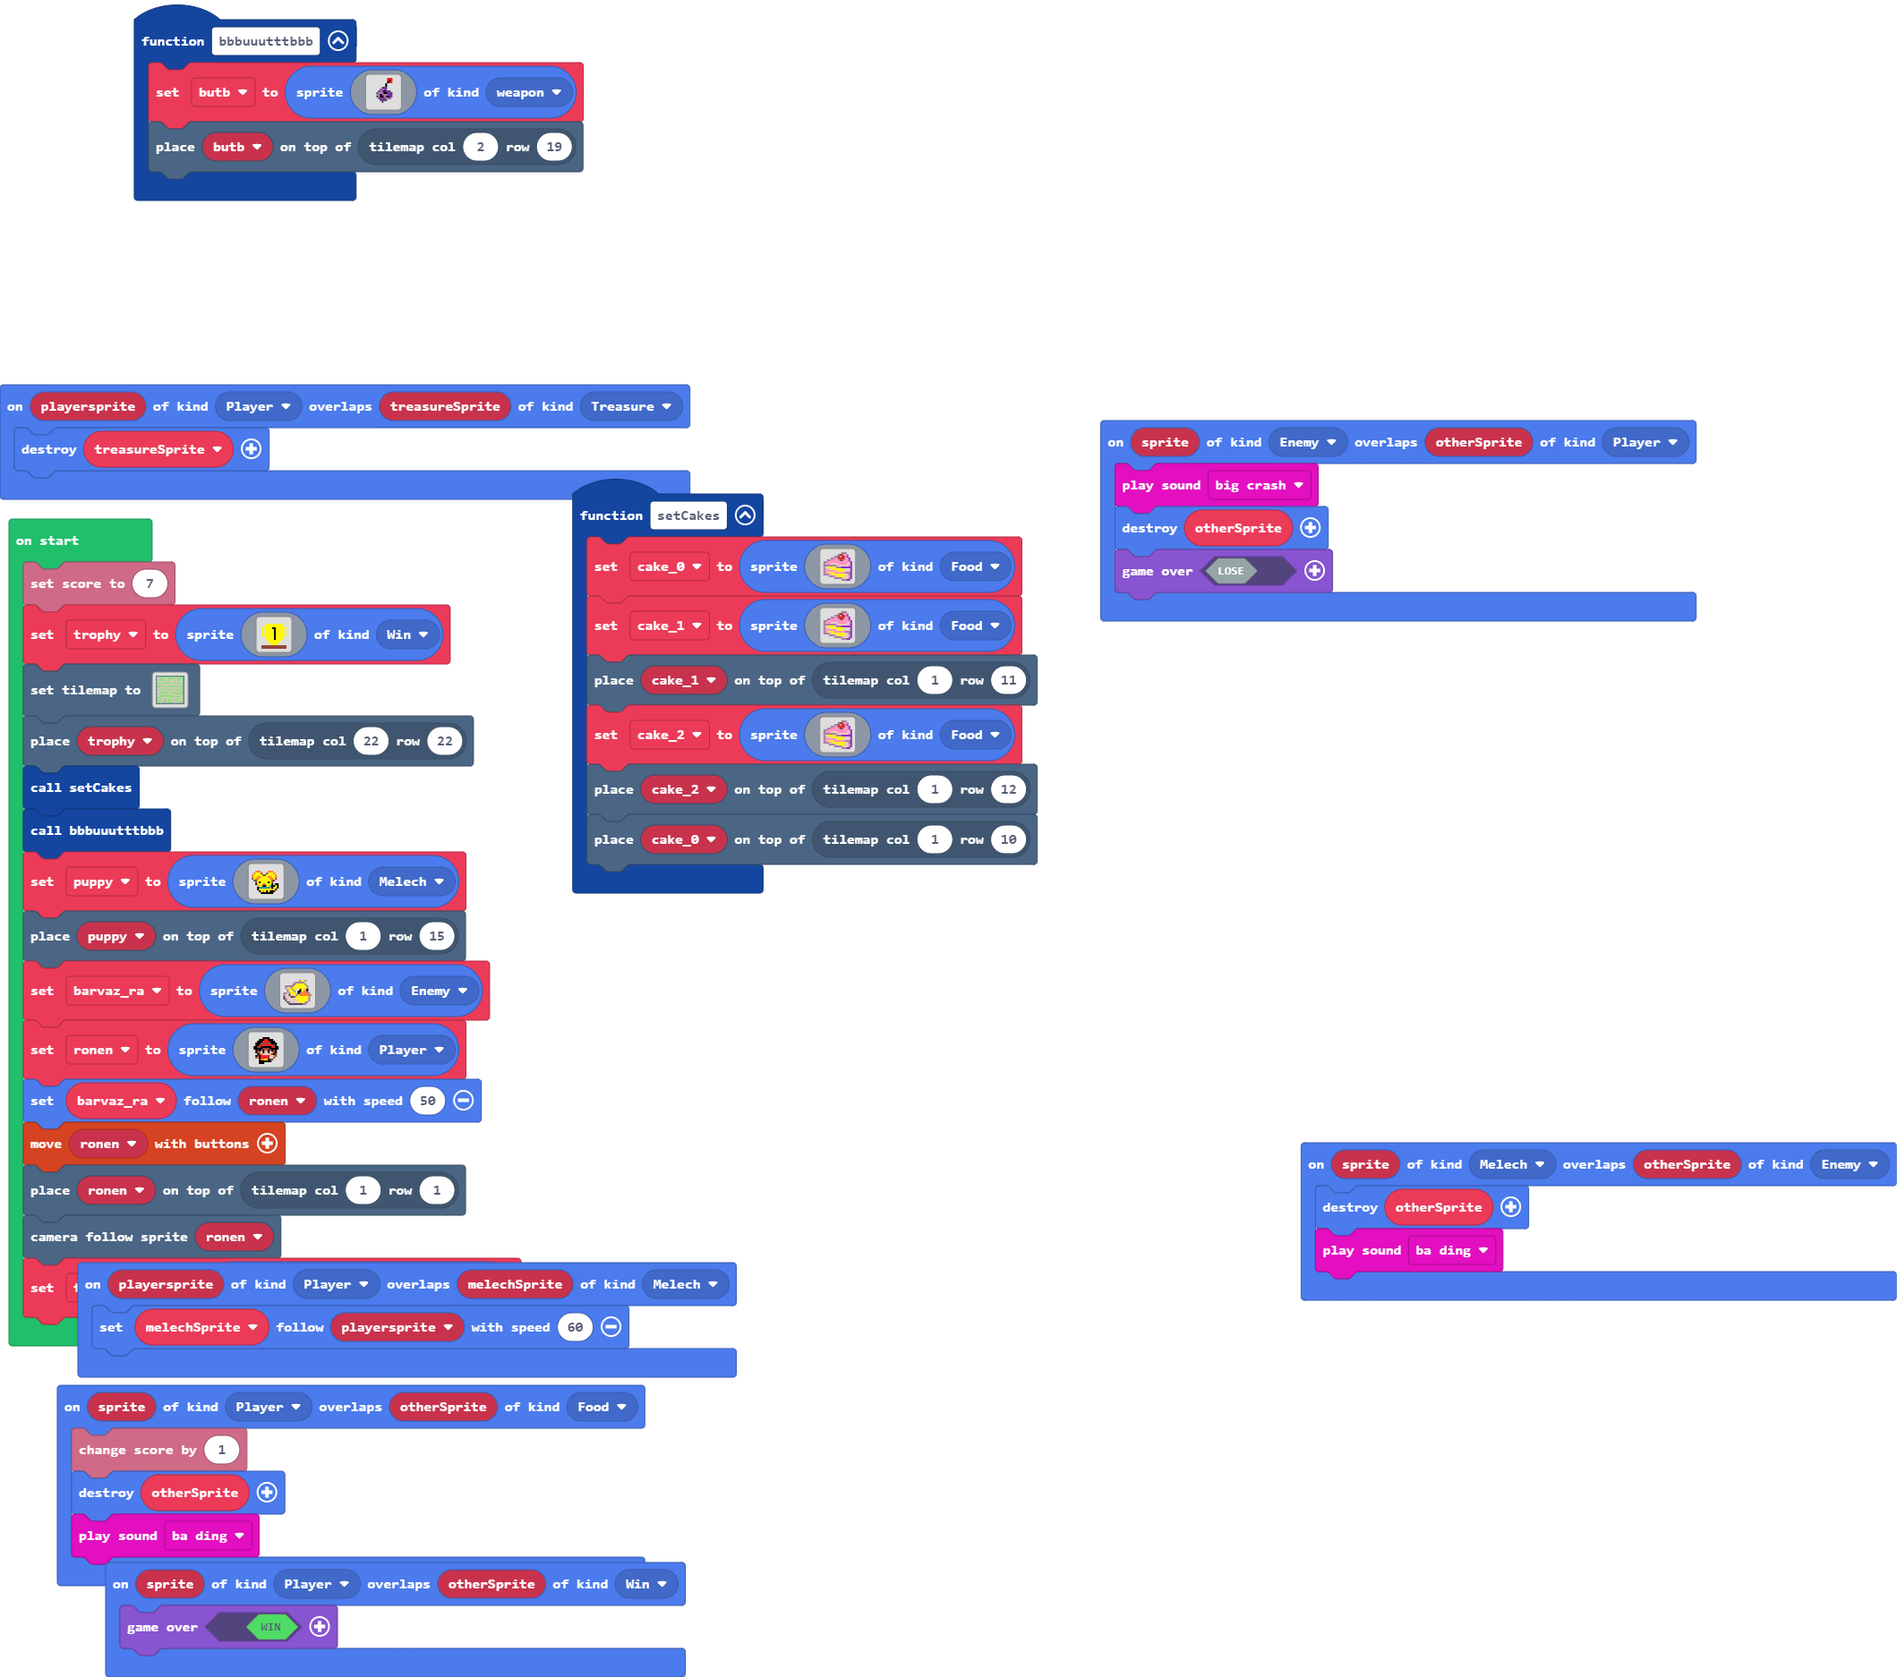
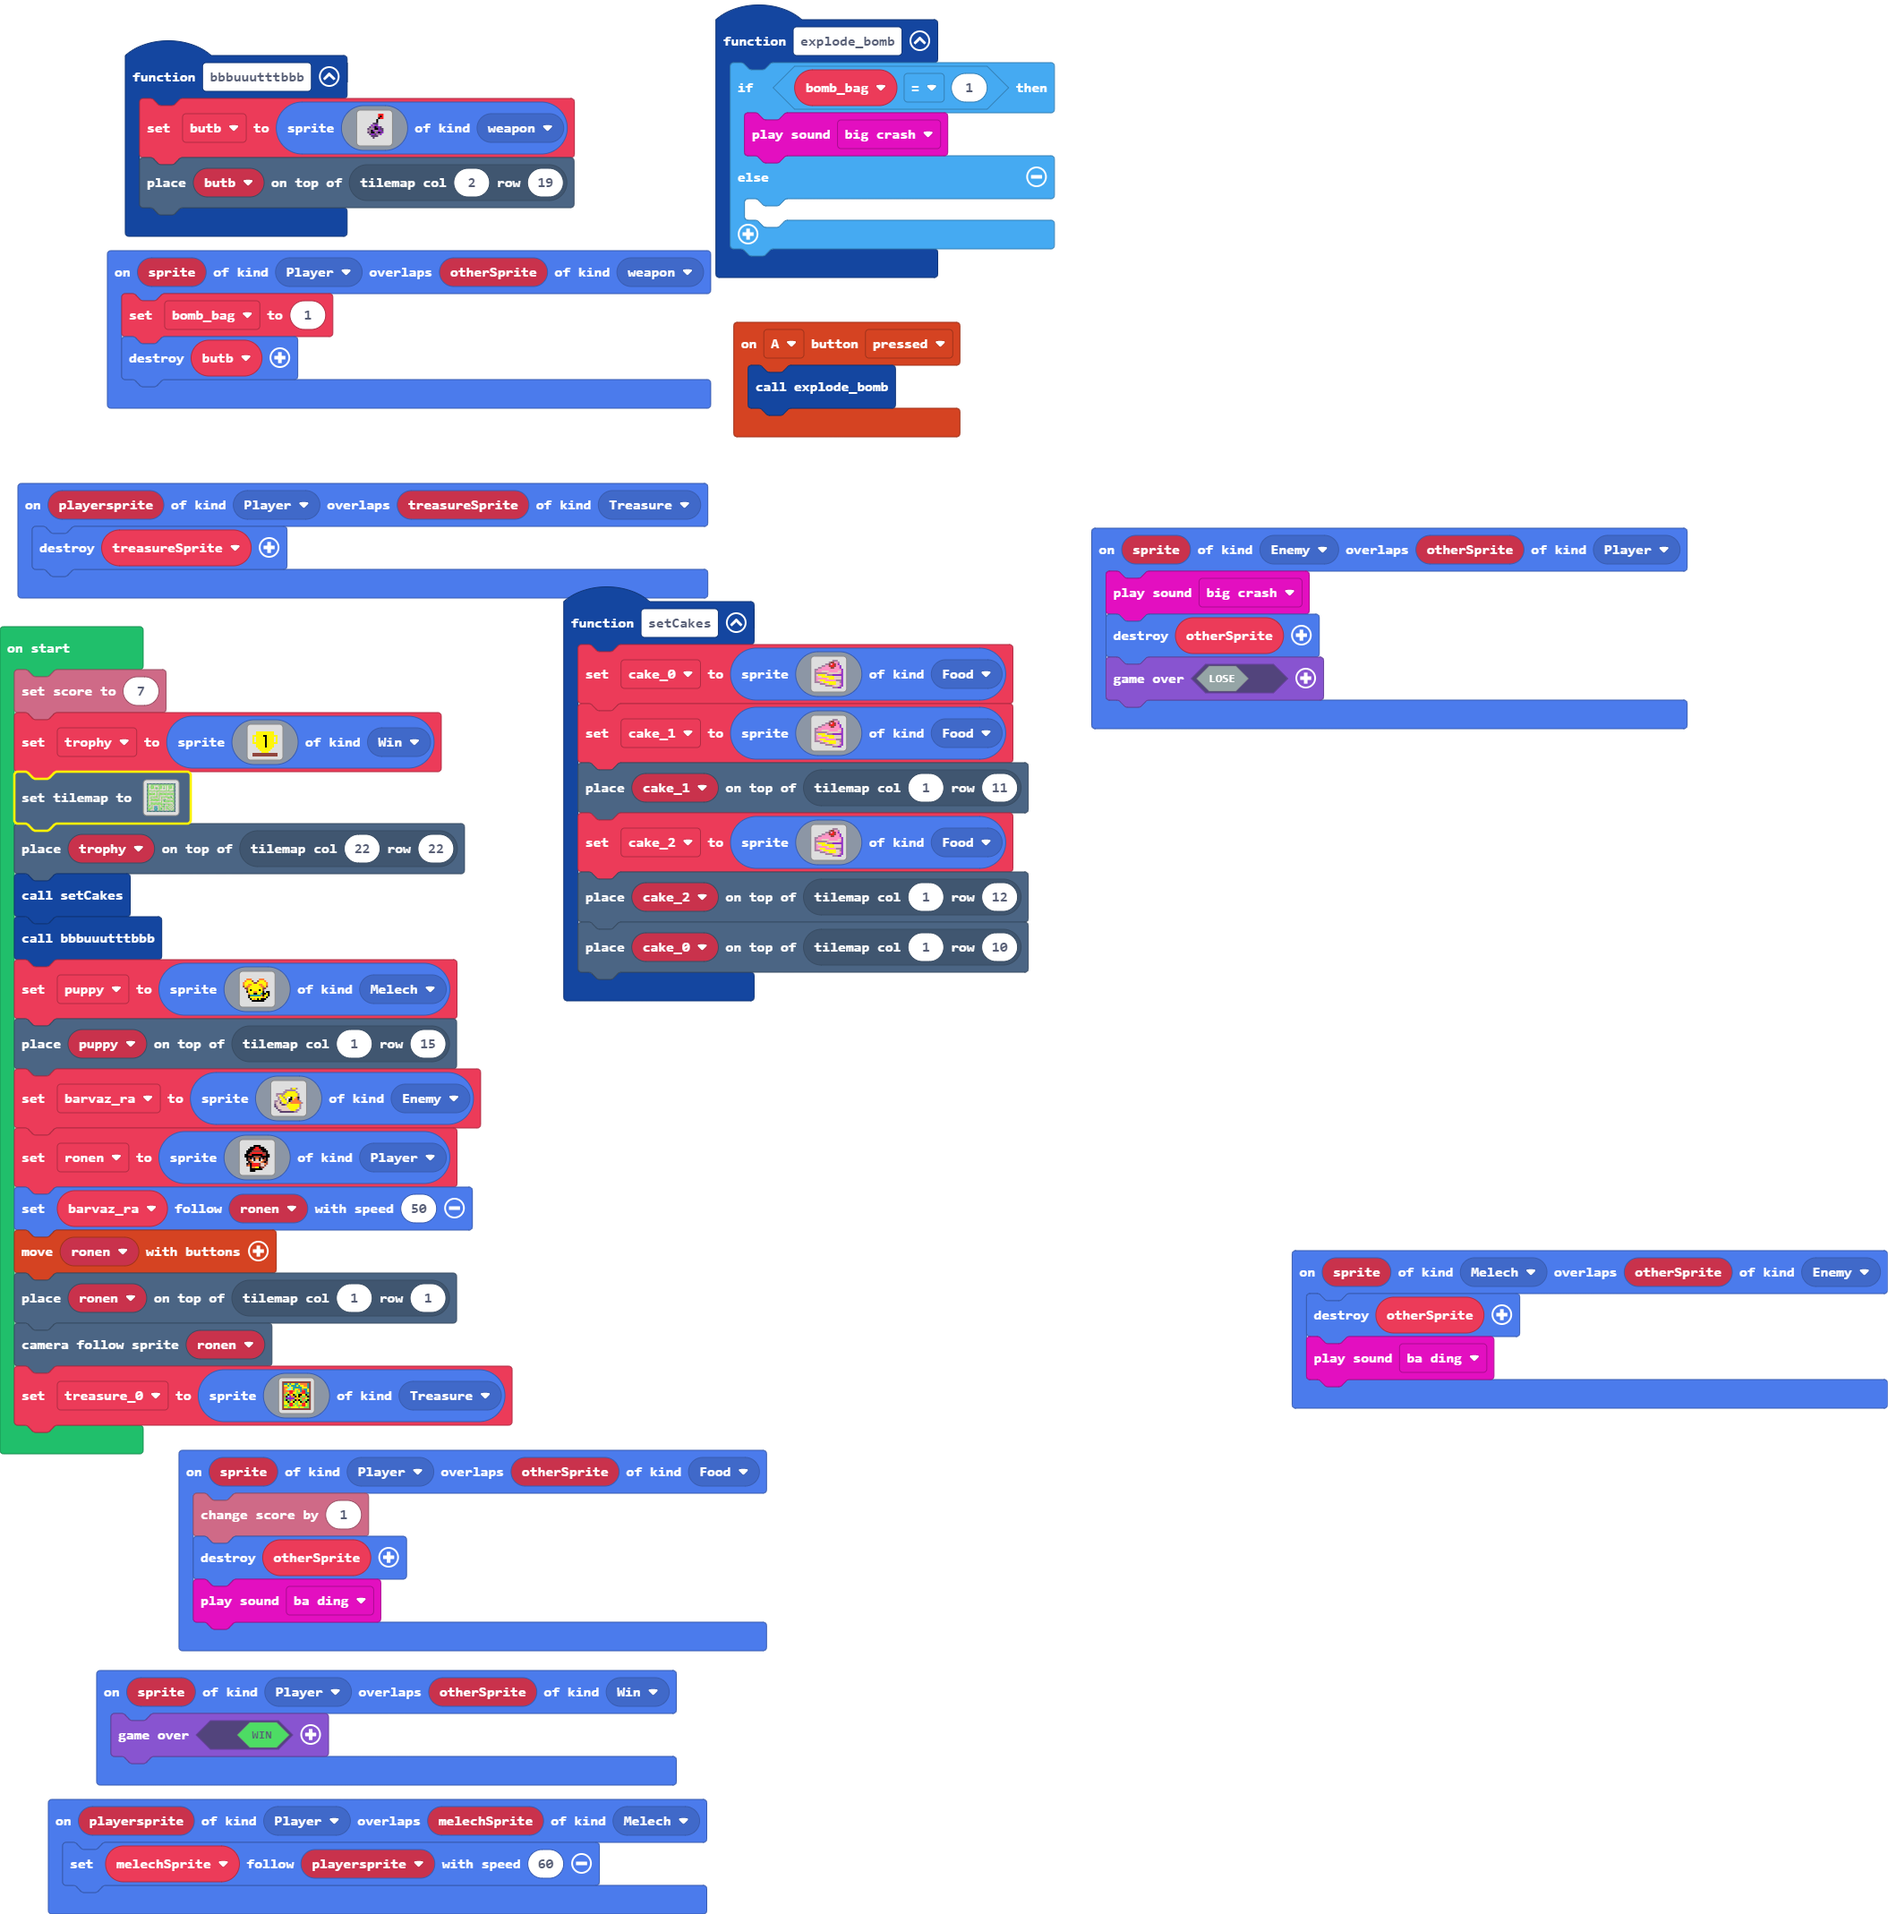
Update main.blocks, main.ts, tilemap.g.jres, tilemap.g.ts

Changed region(s): [[0.0, 0.0, 0.5856, 1.0], [0.5548, 0.2476, 0.8938, 0.4023], [0.678, 0.6499, 1.0, 0.7737]]

diff --git a/tilemap.g.ts b/tilemap.g.ts
@@ -73,7 +73,7 @@ namespace myTiles {
 . . . . . . . . . . . . . . . . 
 `, [myTiles.transparency16], TileScale.Sixteen);
             case "level1":
[2 lines of base64/hex data omitted]
 222222222222222222222222
 2.2....................2
 2.2...2222...2.2.2...2.2
@@ -98,7 +98,7 @@ namespace myTiles {
 2....2...2...2.222.22222
 2..222...2...2.222.....2
 222222222222222222222222
-`, [myTiles.transparency16,sprites.castle.tileGrass2,sprites.dungeon.greenInnerNorthEast,sprites.dungeon.greenInnerNorthWest,sprites.dungeon.greenInnerSouthWest,sprites.dungeon.greenInnerSouthEast,sprites.dungeon.greenOuterWest1,sprites.dungeon.greenOuterSouth1,sprites.dungeon.greenOuterNorth0,sprites.dungeon.greenOuterEast0,sprites.dungeon.floorLight0], TileScale.Sixteen);
+`, [myTiles.transparency16,sprites.castle.tileGrass2,sprites.dungeon.greenInnerNorthEast,sprites.dungeon.greenInnerNorthWest,sprites.dungeon.greenInnerSouthWest,sprites.dungeon.greenInnerSouthEast,sprites.dungeon.greenOuterWest1,sprites.dungeon.greenOuterSouth1,sprites.dungeon.greenOuterNorth0,sprites.dungeon.greenOuterEast0,sprites.dungeon.floorLight0,sprites.builtin.forestTiles0,sprites.castle.tileDarkGrass2,sprites.castle.tileDarkGrass3,sprites.castle.tileGrass1,sprites.castle.tileGrass3,sprites.builtin.brick], TileScale.Sixteen);
         }
         return null;
     })

diff --git a/main.ts b/main.ts
@@ -9,6 +9,9 @@ sprites.onOverlap(SpriteKind.Melech, SpriteKind.Enemy, function (sprite, otherSp
     otherSprite.destroy()
     music.baDing.play()
 })
+controller.A.onEvent(ControllerButtonEvent.Pressed, function () {
+    explode_bomb()
+})
 sprites.onOverlap(SpriteKind.Player, SpriteKind.Treasure, function (playersprite, treasureSprite) {
     treasureSprite.destroy()
 })
@@ -105,9 +108,21 @@ sprites.onOverlap(SpriteKind.Player, SpriteKind.Food, function (sprite, otherSpr
     otherSprite.destroy()
     music.baDing.play()
 })
+function explode_bomb () {
+    if (bomb_bag == 1) {
+        music.bigCrash.play()
+    } else {
+    	
+    }
+}
+sprites.onOverlap(SpriteKind.Player, SpriteKind.weapon, function (sprite, otherSprite) {
+    bomb_bag = 1
+    butb.destroy()
+})
 sprites.onOverlap(SpriteKind.Player, SpriteKind.Melech, function (playersprite, melechSprite) {
     melechSprite.follow(playersprite, 60)
 })
+let bomb_bag = 0
 let butb: Sprite = null
 let cake_2: Sprite = null
 let cake_1: Sprite = null
